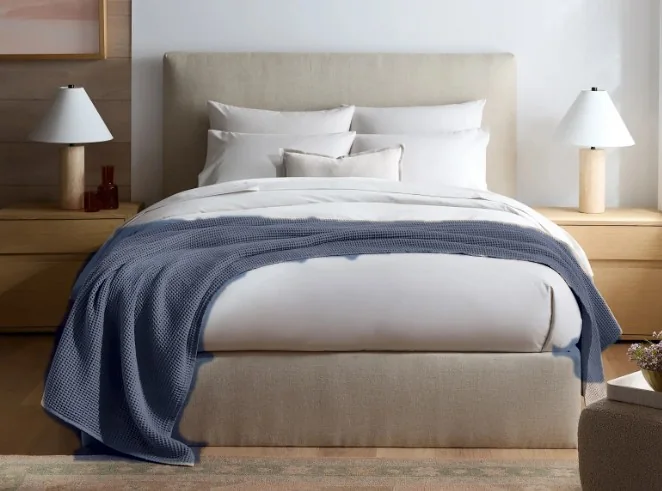
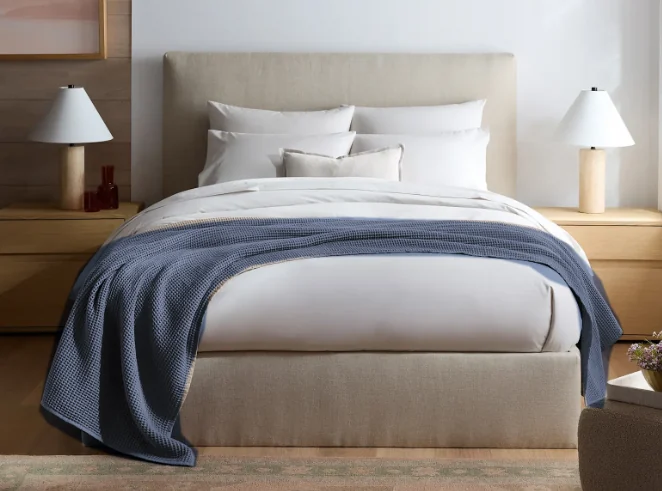
Shop: traced blanket outlines for room photos, new section order
Claude-Session: https://claude.ai/code/session_01Cp5yudshicN9N4zJWhFCZZ

diff --git a/shop.html b/shop.html
@@ -139,6 +139,7 @@ button{font:inherit;color:inherit}
 @media(max-width:860px){.pgrid{grid-template-columns:minmax(0,1fr)}.stage{min-height:300px}}
 @media(max-width:480px){.facts{grid-template-columns:repeat(2,minmax(0,1fr))}.steps{grid-template-columns:repeat(2,minmax(0,1fr))}}
 
+.sect{font-size:clamp(24px,3vw,32px);margin:34px 0 0}
 .rooms{display:grid;grid-template-columns:repeat(2,minmax(0,1fr));gap:16px;margin:22px 0 4px}
 .room{position:relative;display:block;border-radius:22px;overflow:hidden;text-decoration:none;color:#fff;aspect-ratio:4/3;background:#ddd;box-shadow:0 24px 40px -30px rgba(50,30,10,.6)}
 .room img{width:100%;height:100%;object-fit:cover;transition:transform .6s cubic-bezier(.2,.8,.2,1),opacity .4s}
@@ -176,11 +177,6 @@ footer{color:var(--muted);font-size:13px;padding:8px 0 40px}
       </div>
       <div class="stack" id="stack" aria-hidden="true"></div>
     </section>
-    <div class="rooms" id="rooms"></div>
-    <div class="rails">
-      <section class="rail"><h3>Selling fast <small>last 7 order days</small></h3><div class="rlist" id="fast"></div></section>
-      <section class="rail"><h3>Running low <small>needs the next inspection</small></h3><div class="rlist" id="low"></div></section>
-    </div>
     <div class="bar" role="group" aria-label="Filter racks">
       <button class="chip" data-f="all" aria-pressed="true">All</button>
       <button class="chip" data-f="in" aria-pressed="false">In stock</button>
@@ -195,6 +191,12 @@ footer{color:var(--muted);font-size:13px;padding:8px 0 40px}
       <span><i style="background:var(--red)"></i><b class="lgR">20</b> pcs or fewer</span>
       <span><i style="background:var(--grey)"></i>Sold out</span>
     </div>
+    <h2 class="sect">Shop by room</h2>
+    <div class="rooms" id="rooms"></div>
+    <div class="rails">
+      <section class="rail"><h3>Selling fast <small>last 7 order days</small></h3><div class="rlist" id="fast"></div></section>
+      <section class="rail"><h3>Running low <small>needs the next inspection</small></h3><div class="rlist" id="low"></div></section>
+    </div>
   </div>
   <div class="pv" id="pv"></div>
   <footer>Stock = inspected − dispatched, updated with each daily run. No customer details are shown here.</footer>
@@ -202,8 +204,8 @@ footer{color:var(--muted);font-size:13px;padding:8px 0 40px}
 <script src="https://www.gstatic.com/firebasejs/10.12.2/firebase-app-compat.js"></script>
 <script src="https://www.gstatic.com/firebasejs/10.12.2/firebase-auth-compat.js"></script>
 <script src="https://www.gstatic.com/firebasejs/10.12.2/firebase-firestore-compat.js"></script>
-<script src="qm-fire.js?v=202611272013"></script>
-<script src="qm-nav.js?v=202611272013"></script>
+<script src="qm-fire.js?v=202611272032"></script>
+<script src="qm-nav.js?v=202611272032"></script>
 <script>
 {
 const SHADE={'Dove':'#bdb3a7','White':'#f3f2ef','Espresso':'#3a2826','Mist':'#a8adb1','Undyed':'#ece2c9','Mineral':'#4f5e70','Dried Sage':'#a19f8a'};

diff --git a/engine/web/shop.html b/engine/web/shop.html
@@ -139,6 +139,7 @@ button{font:inherit;color:inherit}
 @media(max-width:860px){.pgrid{grid-template-columns:minmax(0,1fr)}.stage{min-height:300px}}
 @media(max-width:480px){.facts{grid-template-columns:repeat(2,minmax(0,1fr))}.steps{grid-template-columns:repeat(2,minmax(0,1fr))}}
 
+.sect{font-size:clamp(24px,3vw,32px);margin:34px 0 0}
 .rooms{display:grid;grid-template-columns:repeat(2,minmax(0,1fr));gap:16px;margin:22px 0 4px}
 .room{position:relative;display:block;border-radius:22px;overflow:hidden;text-decoration:none;color:#fff;aspect-ratio:4/3;background:#ddd;box-shadow:0 24px 40px -30px rgba(50,30,10,.6)}
 .room img{width:100%;height:100%;object-fit:cover;transition:transform .6s cubic-bezier(.2,.8,.2,1),opacity .4s}
@@ -176,11 +177,6 @@ footer{color:var(--muted);font-size:13px;padding:8px 0 40px}
       </div>
       <div class="stack" id="stack" aria-hidden="true"></div>
     </section>
-    <div class="rooms" id="rooms"></div>
-    <div class="rails">
-      <section class="rail"><h3>Selling fast <small>last 7 order days</small></h3><div class="rlist" id="fast"></div></section>
-      <section class="rail"><h3>Running low <small>needs the next inspection</small></h3><div class="rlist" id="low"></div></section>
-    </div>
     <div class="bar" role="group" aria-label="Filter racks">
       <button class="chip" data-f="all" aria-pressed="true">All</button>
       <button class="chip" data-f="in" aria-pressed="false">In stock</button>
@@ -194,6 +190,12 @@ footer{color:var(--muted);font-size:13px;padding:8px 0 40px}
       <span><i style="background:#c98a12"></i><b class="lgR1">21</b>–<b class="lgY">100</b> pcs</span>
       <span><i style="background:var(--red)"></i><b class="lgR">20</b> pcs or fewer</span>
       <span><i style="background:var(--grey)"></i>Sold out</span>
+    </div>
+    <h2 class="sect">Shop by room</h2>
+    <div class="rooms" id="rooms"></div>
+    <div class="rails">
+      <section class="rail"><h3>Selling fast <small>last 7 order days</small></h3><div class="rlist" id="fast"></div></section>
+      <section class="rail"><h3>Running low <small>needs the next inspection</small></h3><div class="rlist" id="low"></div></section>
     </div>
   </div>
   <div class="pv" id="pv"></div>
